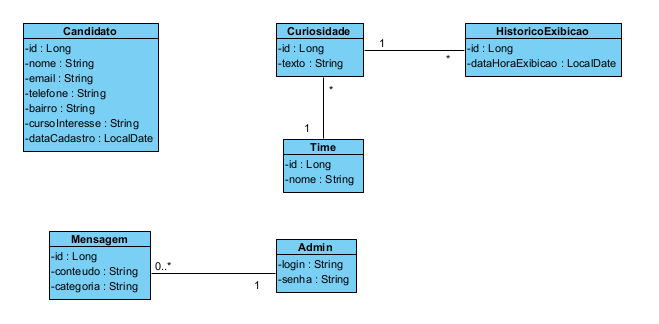
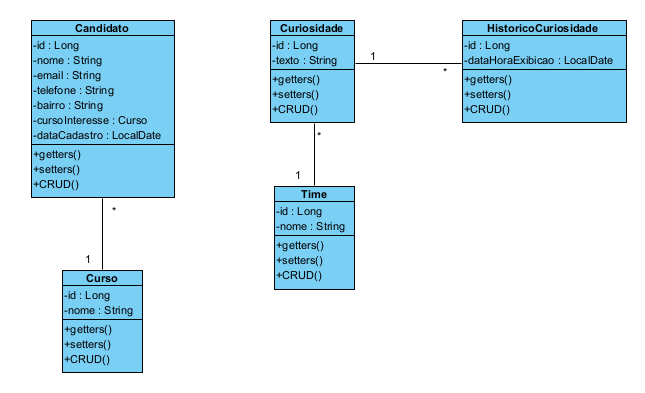
Esqueleto do projeto

Changed region(s): [[0.4031, 0.0309, 0.9922, 0.9259], [0.031, 0.0309, 0.2791, 0.5556], [0.062, 0.679, 0.2481, 0.9568]]

diff --git a/src/main/java/br/edu/fatecl/av2labbd/av2_labbd/service/HistoricoCuriosidadeService.java b/src/main/java/br/edu/fatecl/av2labbd/av2_labbd/service/HistoricoCuriosidadeService.java
@@ -1,0 +1,34 @@
+package br.edu.fatecl.av2labbd.av2_labbd.service;
+
+import br.edu.fatecl.av2labbd.av2_labbd.repository.HistoricoCuriosidadeRepository;
+import org.springframework.beans.factory.annotation.Autowired;
+import org.springframework.stereotype.Service;
+
+@Service
+public class HistoricoCuriosidadeService {
+
+    @Autowired
+    HistoricoCuriosidadeRepository historicoCuriosidadeRepository;
+
+    public void criarHistoricoCuriosidade() {
+        //TODO
+    }
+
+    public void buscarHistoricoCuriosidadePorId() {
+        //TODO
+    }
+
+
+    public void atualizarHistoricoCuriosidade() {
+        //TODO
+    }
+
+    public void deletarHistoricoCuriosidade() {
+        //TODO
+    }
+
+    public void listarHistoricoCuriosidades() {
+        //TODO
+    }
+
+}

diff --git a/src/main/java/br/edu/fatecl/av2labbd/av2_labbd/service/CuriosidadeService.java b/src/main/java/br/edu/fatecl/av2labbd/av2_labbd/service/CuriosidadeService.java
@@ -1,0 +1,34 @@
+package br.edu.fatecl.av2labbd.av2_labbd.service;
+
+import br.edu.fatecl.av2labbd.av2_labbd.repository.CuriosidadeRepository;
+import org.springframework.beans.factory.annotation.Autowired;
+import org.springframework.stereotype.Service;
+
+@Service
+public class CuriosidadeService {
+
+    @Autowired
+    CuriosidadeRepository curiosidadeRepository;
+
+    public void criarCuriosidade() {
+        //TODO
+    }
+
+    public void buscarCuriosidadePorId() {
+        //TODO
+    }
+
+
+    public void atualizarCuriosidade() {
+        //TODO
+    }
+
+    public void deletarCuriosidade() {
+        //TODO
+    }
+
+    public void listarTodasCuriosidades() {
+        //TODO
+    }
+
+}

diff --git a/src/main/java/br/edu/fatecl/av2labbd/av2_labbd/service/CandidatoService.java b/src/main/java/br/edu/fatecl/av2labbd/av2_labbd/service/CandidatoService.java
@@ -1,4 +1,34 @@
 package br.edu.fatecl.av2labbd.av2_labbd.service;
 
+import br.edu.fatecl.av2labbd.av2_labbd.repository.CandidatoRepository;
+import org.springframework.beans.factory.annotation.Autowired;
+import org.springframework.stereotype.Service;
+
+@Service
 public class CandidatoService {
+
+    @Autowired
+    CandidatoRepository candidatoRepository;
+
+    public void criarCandidato() {
+        //TODO
+    }
+
+    public void buscarCandidatoPorId() {
+        //TODO
+    }
+
+
+    public void atualizarCandidato() {
+        //TODO
+    }
+
+    public void deletarCandidato() {
+        //TODO
+    }
+
+    public void listarTodosCandidatos() {
+        //TODO
+    }
+
 }

diff --git a/src/main/java/br/edu/fatecl/av2labbd/av2_labbd/service/CursoService.java b/src/main/java/br/edu/fatecl/av2labbd/av2_labbd/service/CursoService.java
@@ -1,0 +1,34 @@
+package br.edu.fatecl.av2labbd.av2_labbd.service;
+
+import br.edu.fatecl.av2labbd.av2_labbd.repository.CursoRepository;
+import org.springframework.beans.factory.annotation.Autowired;
+import org.springframework.stereotype.Service;
+
+@Service
+public class CursoService {
+
+    @Autowired
+    CursoRepository cursoRepository;
+
+    public void criarCurso() {
+        //TODO
+    }
+
+    public void buscarCursoPorId() {
+        //TODO
+    }
+
+
+    public void atualizarCurso() {
+        //TODO
+    }
+
+    public void deletarCurso() {
+        //TODO
+    }
+
+    public void listarTodosCursos() {
+        //TODO
+    }
+
+}

diff --git a/src/main/java/br/edu/fatecl/av2labbd/av2_labbd/service/TimeService.java b/src/main/java/br/edu/fatecl/av2labbd/av2_labbd/service/TimeService.java
@@ -1,0 +1,34 @@
+package br.edu.fatecl.av2labbd.av2_labbd.service;
+
+import br.edu.fatecl.av2labbd.av2_labbd.repository.TimeRepository;
+import org.springframework.beans.factory.annotation.Autowired;
+import org.springframework.stereotype.Service;
+
+@Service
+public class TimeService {
+
+    @Autowired
+    TimeRepository timeRepository;
+
+    public void criarTime() {
+        //TODO
+    }
+
+    public void buscarTimePorId() {
+        //TODO
+    }
+
+
+    public void atualizarTime() {
+        //TODO
+    }
+
+    public void deletarTime() {
+        //TODO
+    }
+
+    public void listarTodosTimes() {
+        //TODO
+    }
+
+}

diff --git a/src/main/java/br/edu/fatecl/av2labbd/av2_labbd/model/Candidato.java b/src/main/java/br/edu/fatecl/av2labbd/av2_labbd/model/Candidato.java
@@ -14,6 +14,10 @@ public class Candidato {
     @GeneratedValue(strategy = GenerationType.IDENTITY)
     private Long id;
 
+    @ManyToOne
+    @JoinColumn(name = "curso_interesse_id", nullable = false)
+    private Curso cursoInteresse;
+
     @Column(nullable = false)
     private String nome;
 
@@ -26,10 +30,7 @@ public class Candidato {
     @Column(nullable = false)
     private String bairro;
 
-    @Column(nullable = false)
-    private String cursoInteresse;
-
-    @Column(nullable = false)
+    @Column(name = "data_cadastro", nullable = false)
     private LocalDate dataCadastro;
 
 }

diff --git a/src/main/java/br/edu/fatecl/av2labbd/av2_labbd/model/HistoricoCuriosidade.java b/src/main/java/br/edu/fatecl/av2labbd/av2_labbd/model/HistoricoCuriosidade.java
@@ -6,15 +6,19 @@ import lombok.Data;
 import java.time.LocalDate;
 
 @Entity
-@Table(name = "tb_candidatos")
+@Table(name = "tb_historico_curiosidade")
 @Data
-public class HistoricoExibicao {
+public class HistoricoCuriosidade {
 
     @Id
     @GeneratedValue(strategy = GenerationType.IDENTITY)
     private Long id;
 
-    @Column(nullable = false)
+    @ManyToOne
+    @JoinColumn(name = "curiosidade_id", nullable = false)
+    private Curiosidade curiosidade;
+
+    @Column(name = "data_hora_exibicao", nullable = false)
     private LocalDate dataHoraExibicao;
 
 }

diff --git a/src/main/java/br/edu/fatecl/av2labbd/av2_labbd/repository/HistoricoCuriosidadeRepository.java b/src/main/java/br/edu/fatecl/av2labbd/av2_labbd/repository/HistoricoCuriosidadeRepository.java
@@ -1,9 +1,9 @@
 package br.edu.fatecl.av2labbd.av2_labbd.repository;
 
-import br.edu.fatecl.av2labbd.av2_labbd.model.Candidato;
+import br.edu.fatecl.av2labbd.av2_labbd.model.HistoricoCuriosidade;
 import org.springframework.data.jpa.repository.JpaRepository;
 import org.springframework.stereotype.Repository;
 
 @Repository
-public interface CandidatoRepository extends JpaRepository<Candidato, Long> {
+public interface HistoricoCuriosidadeRepository extends JpaRepository<HistoricoCuriosidade, Long> {
 }

diff --git a/src/main/java/br/edu/fatecl/av2labbd/av2_labbd/repository/CuriosidadeRepository.java b/src/main/java/br/edu/fatecl/av2labbd/av2_labbd/repository/CuriosidadeRepository.java
@@ -1,9 +1,9 @@
 package br.edu.fatecl.av2labbd.av2_labbd.repository;
 
-import br.edu.fatecl.av2labbd.av2_labbd.model.Candidato;
+import br.edu.fatecl.av2labbd.av2_labbd.model.Curiosidade;
 import org.springframework.data.jpa.repository.JpaRepository;
 import org.springframework.stereotype.Repository;
 
 @Repository
-public interface CandidatoRepository extends JpaRepository<Candidato, Long> {
+public interface CuriosidadeRepository extends JpaRepository<Curiosidade, Long> {
 }

diff --git a/src/main/java/br/edu/fatecl/av2labbd/av2_labbd/repository/CursoRepository.java b/src/main/java/br/edu/fatecl/av2labbd/av2_labbd/repository/CursoRepository.java
@@ -1,9 +1,9 @@
 package br.edu.fatecl.av2labbd.av2_labbd.repository;
 
-import br.edu.fatecl.av2labbd.av2_labbd.model.Candidato;
+import br.edu.fatecl.av2labbd.av2_labbd.model.Curso;
 import org.springframework.data.jpa.repository.JpaRepository;
 import org.springframework.stereotype.Repository;
 
 @Repository
-public interface CandidatoRepository extends JpaRepository<Candidato, Long> {
+public interface CursoRepository extends JpaRepository<Curso, Long> {
 }

diff --git a/src/main/java/br/edu/fatecl/av2labbd/av2_labbd/repository/TimeRepository.java b/src/main/java/br/edu/fatecl/av2labbd/av2_labbd/repository/TimeRepository.java
@@ -1,9 +1,9 @@
 package br.edu.fatecl.av2labbd.av2_labbd.repository;
 
-import br.edu.fatecl.av2labbd.av2_labbd.model.Candidato;
+import br.edu.fatecl.av2labbd.av2_labbd.model.Time;
 import org.springframework.data.jpa.repository.JpaRepository;
 import org.springframework.stereotype.Repository;
 
 @Repository
-public interface CandidatoRepository extends JpaRepository<Candidato, Long> {
+public interface TimeRepository extends JpaRepository<Time, Long> {
 }

diff --git a/src/main/java/br/edu/fatecl/av2labbd/av2_labbd/model/Curso.java b/src/main/java/br/edu/fatecl/av2labbd/av2_labbd/model/Curso.java
@@ -4,9 +4,9 @@ import jakarta.persistence.*;
 import lombok.Data;
 
 @Entity
-@Table(name = "tb_categorias_mensagem")
+@Table(name = "tb_cursos")
 @Data
-public class CategoriaMensagem {
+public class Curso {
 
     @Id
     @GeneratedValue(strategy = GenerationType.IDENTITY)
@@ -14,5 +14,4 @@ public class CategoriaMensagem {
 
     @Column(nullable = false)
     private String nome;
-
 }
